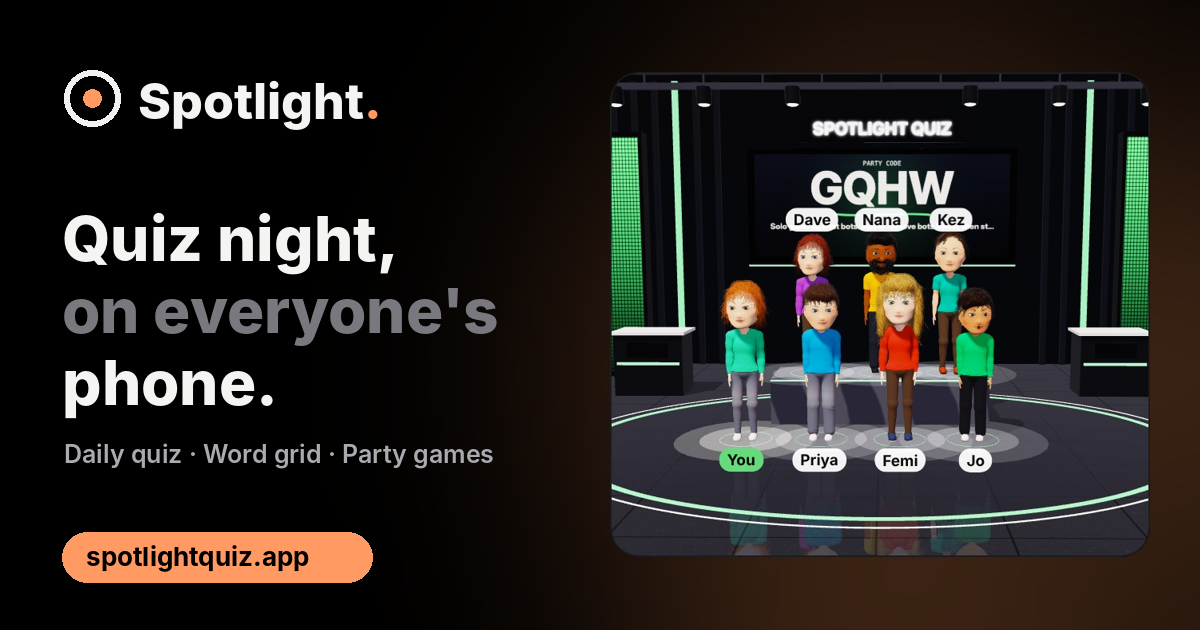
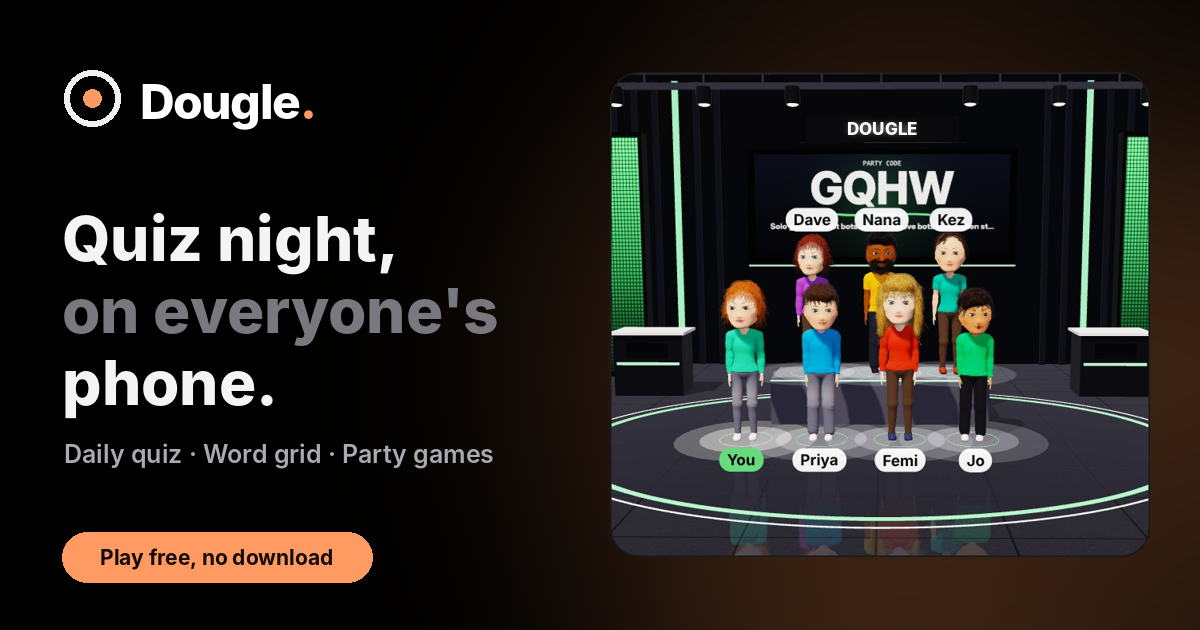
Dougle: link preview image and README
Claude-Session: https://claude.ai/code/session_01THpXHESRFSucLhnVoxzRhH

Changed region(s): [[0.1233, 0.1206, 0.3083, 0.2111], [0.6783, 0.181, 0.8017, 0.2413], [0.0617, 0.8746, 0.2775, 0.9048]]

diff --git a/README.md b/README.md
@@ -1,4 +1,4 @@
-# Spotlight Quiz
+# Dougle (formerly Spotlight Quiz)
 
 A live party quiz you play together on your phones. This folder is the whole website: the game page plus a small server that runs the multiplayer.
 
